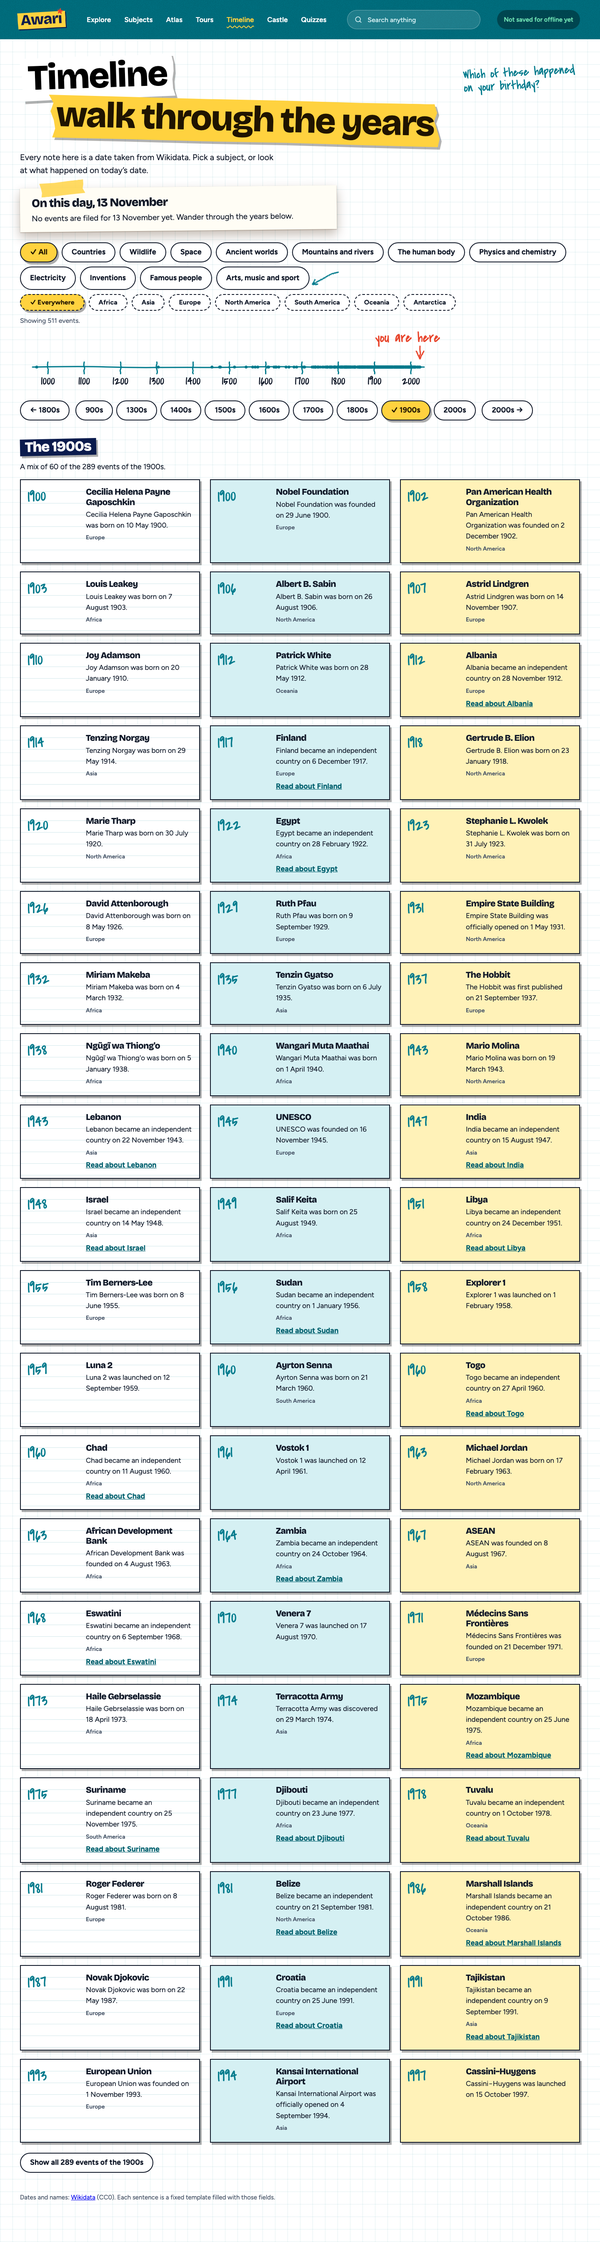
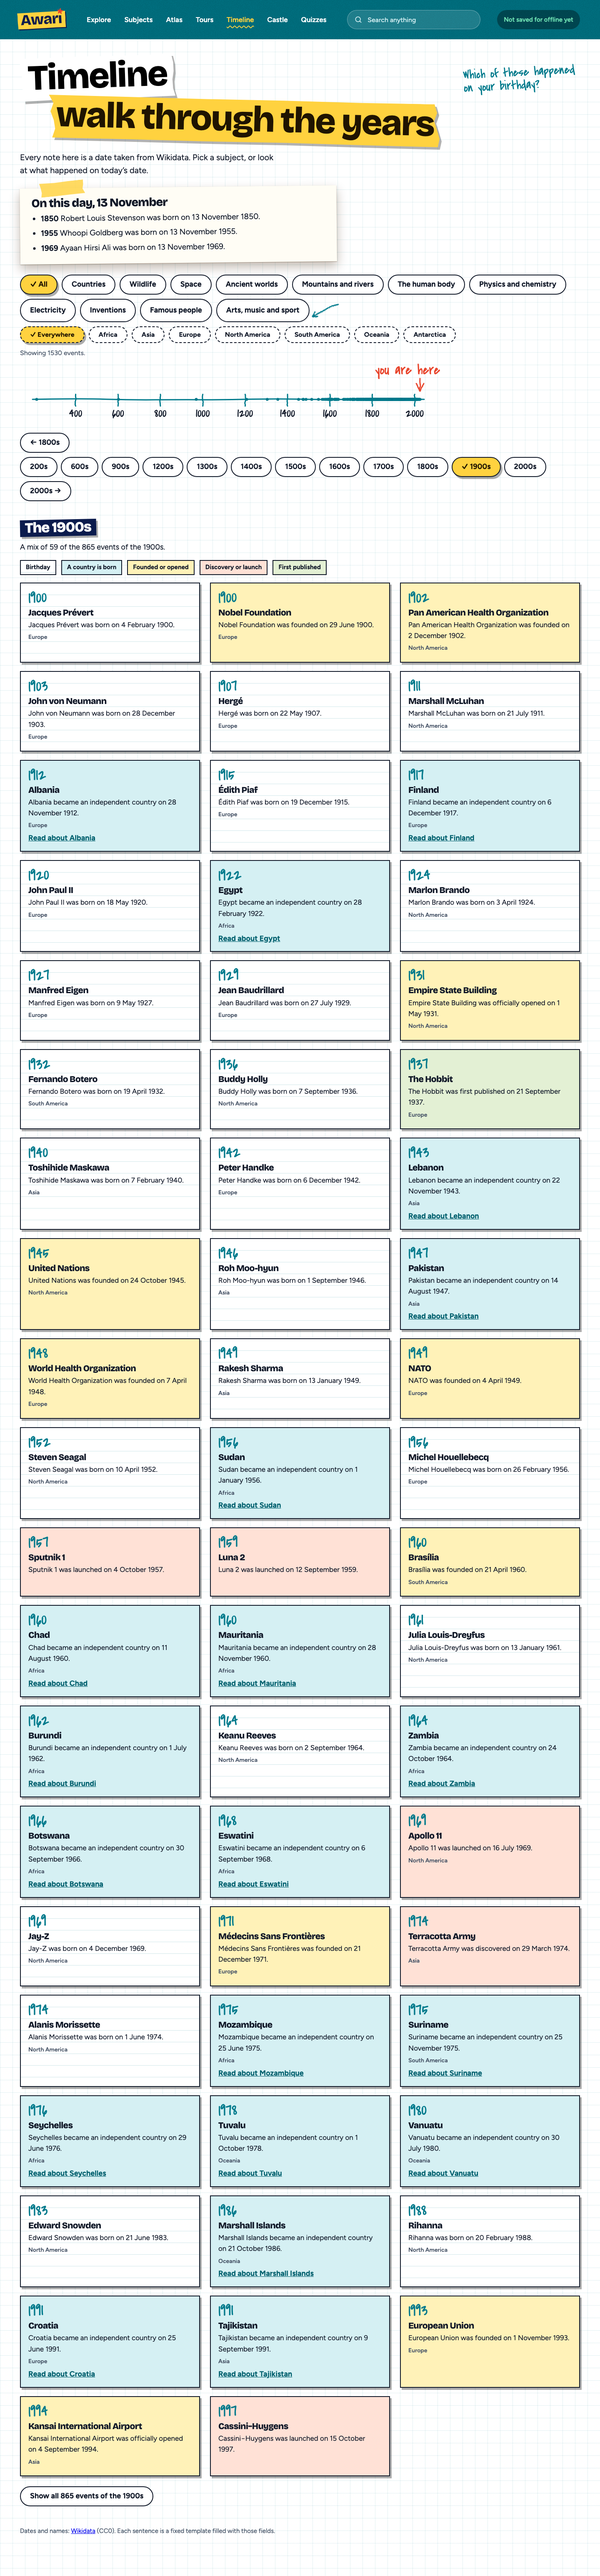
22-review-3 3: timeline cards coloured by kind with a legend, year above title, ruler step, births under 40%

diff --git a/src/features/timeline/TimelineScreen.tsx b/src/features/timeline/TimelineScreen.tsx
@@ -17,7 +17,10 @@ import {
   balancedCentury,
   centuriesWith,
   filterEvents,
+  EVENT_KIND_GROUPS,
   inCentury,
+  kindOf,
+  rulerStep,
   nearestCentury,
   positionOf,
   rulerMarks,
@@ -29,20 +32,16 @@ import {
 } from './filter.ts';
 import './timeline.css';
 
-const NOTE_STYLES = ['lined', 'teal', 'sticky'] as const;
 
 /** Article link such as "countries/mali" as an in-app path. */
 function articlePath(link: string): string {
   return `/article/${link}`;
 }
 
-function EventNote({ event, index, picked }: { event: TimelineEvent; index: number; picked: boolean }) {
+function EventNote({ event, picked }: { event: TimelineEvent; picked: boolean }) {
   const year = yearOf(event);
   return (
-    <li
-      id={`event-${event.id}`}
-      className={`tl-note tl-note--${NOTE_STYLES[index % NOTE_STYLES.length]}${picked ? ' is-picked' : ''}`}
-    >
+    <li id={`event-${event.id}`} className={`tl-note tl-note--${kindOf(event)}${picked ? ' is-picked' : ''}`}>
       <span aria-hidden="true" className="tl-note__year hand">
         {year}
       </span>
@@ -83,7 +82,7 @@ function Ruler({ events, todayYear }: { events: readonly TimelineEvent[]; todayY
       {events.map((e) => (
         <circle key={e.id} cx={x(yearOf(e))} cy={90} r={3.5} className="tl-ruler__tick" />
       ))}
-      {rulerMarks(min, max).map((year) => (
+      {rulerMarks(min, max, rulerStep(min, max)).map((year) => (
         <g key={year}>
           <path d={wobblyLine({ x: x(year), y: 78 }, { x: x(year), y: 106 }, year, 1.5)} />
           <text x={x(year)} y={132} textAnchor="middle" className="tl-ruler__year">
@@ -268,9 +267,16 @@ export default function TimelineScreen() {
               ? `All ${inThis.length} ${inThis.length === 1 ? 'event' : 'events'} of the ${current}s.`
               : `A mix of ${visible.length} of the ${inThis.length} events of the ${current}s.`}
           </p>
+          <ul className="tl-legend" aria-label="What the colours mean">
+            {EVENT_KIND_GROUPS.map((k) => (
+              <li key={k.id} className={`tl-legend__item tl-note--${k.id}`}>
+                {k.label}
+              </li>
+            ))}
+          </ul>
           <ol className="timeline__list">
-            {visible.map((e, i) => (
-              <EventNote key={e.id} event={e} index={i} picked={picked?.id === e.id} />
+            {visible.map((e) => (
+              <EventNote key={e.id} event={e} picked={picked?.id === e.id} />
             ))}
           </ol>
           {visible.length < inThis.length ? (

diff --git a/src/features/timeline/filter.ts b/src/features/timeline/filter.ts
@@ -137,6 +137,37 @@ export function isBirth(event: Pick<TimelineEvent, 'text'>): boolean {
   return /\bwas born\b/.test(event.text);
 }
 
+/** What an event is about, for its colour and the legend (22-review-3 Req 14). */
+export type EventKindGroup = 'birth' | 'nation' | 'founded' | 'discovery' | 'book';
+
+/** The legend, in display order. */
+export const EVENT_KIND_GROUPS: ReadonlyArray<{ id: EventKindGroup; label: string }> = [
+  { id: 'birth', label: 'Birthday' },
+  { id: 'nation', label: 'A country is born' },
+  { id: 'founded', label: 'Founded or opened' },
+  { id: 'discovery', label: 'Discovery or launch' },
+  { id: 'book', label: 'First published' },
+];
+
+/** The group of an event, read from its fixed sentence template. */
+export function kindOf(event: Pick<TimelineEvent, 'text'>): EventKindGroup {
+  const t = event.text;
+  if (/\bwas born\b/.test(t)) return 'birth';
+  if (/\bbecame an independent country\b/.test(t)) return 'nation';
+  if (/\bwas (launched|discovered)\b/.test(t)) return 'discovery';
+  if (/\bwas first published\b/.test(t)) return 'book';
+  return 'founded';
+}
+
+/** A ruler step that keeps the marks readable: about ten marks at most. */
+export function rulerStep(min: number, max: number): number {
+  const span = Math.max(1, max - min);
+  for (const step of [100, 200, 500, 1000, 2000]) {
+    if (span / step <= 10) return step;
+  }
+  return 5000;
+}
+
 /** Events shown at once for a century unless the student asks for all of them. */
 export const CENTURY_LIMIT = 60;
 
@@ -158,7 +189,8 @@ export function balancedCentury(events: readonly TimelineEvent[], limit = CENTUR
   const takeBirths =
     others.length === 0
       ? Math.min(births.length, limit)
-      : Math.max(0, Math.min(births.length, takeOthers - 1, limit - takeOthers));
+      : // Strictly under 40% of what is shown: births < 2/3 of the other events (22-review-3 Req 16).
+        Math.max(0, Math.min(births.length, Math.ceil((takeOthers * 2) / 3) - 1, limit - takeOthers));
   const chosen = new Set([...spread(others, takeOthers), ...spread(births, takeBirths)]);
   return events.filter((e) => chosen.has(e));
 }

diff --git a/src/features/timeline/kinds.property.test.ts b/src/features/timeline/kinds.property.test.ts
@@ -1,0 +1,44 @@
+/** 22-review-3 Property 5 (Req 14 to 16): kinds, legend, ruler step and the share of births. */
+import { readFileSync } from 'node:fs';
+import { describe, expect, it } from 'vitest';
+import type { TimelineEvent } from '../../lib/packs/types.ts';
+import { EVENT_KIND_GROUPS, balancedCentury, centuriesWith, inCentury, isBirth, kindOf, rulerMarks, rulerStep } from './filter.ts';
+
+const events = (JSON.parse(readFileSync('public/packs/timeline.json', 'utf8')) as { events: TimelineEvent[] }).events;
+
+describe('event kinds (22-review-3 Req 14)', () => {
+  it('gives every event in the pack exactly one kind that the legend names', () => {
+    const legend = new Set(EVENT_KIND_GROUPS.map((k) => k.id));
+    for (const e of events) {
+      expect(legend.has(kindOf(e))).toBe(true);
+    }
+  });
+
+  it('uses every colour group somewhere in the pack', () => {
+    const used = new Set(events.map(kindOf));
+    expect([...used].sort()).toEqual(EVENT_KIND_GROUPS.map((k) => k.id).sort());
+  });
+});
+
+describe('births are under 40% of every default century view (22-review-3 Req 16)', () => {
+  it('holds for each century of the real pack, with and without a subject filter', () => {
+    const sets = [events, events.filter((e) => e.subject === 'arts'), events.filter((e) => e.subject === 'science')];
+    for (const set of sets) {
+      for (const c of centuriesWith(set)) {
+        const shown = balancedCentury(inCentury(set, c));
+        const others = shown.filter((e) => !isBirth(e)).length;
+        if (others > 0) {
+          expect(shown.filter(isBirth).length / shown.length).toBeLessThan(0.4);
+        }
+      }
+    }
+  });
+});
+
+describe('ruler step (22-review-3 Req 15)', () => {
+  it('keeps the marks to about ten, whatever the span', () => {
+    for (const [min, max] of [[1900, 2000], [0, 2026], [-2500, 2026], [900, 2026]] as const) {
+      expect(rulerMarks(min, max, rulerStep(min, max)).length).toBeLessThanOrEqual(11);
+    }
+  });
+});

diff --git a/src/features/timeline/timeline.css b/src/features/timeline/timeline.css
@@ -153,25 +153,53 @@
 .tl-note {
   position: relative;
   display: flex;
-  gap: 16px;
+  flex-direction: column;
+  gap: 4px;
   align-items: flex-start;
-  padding: 16px 18px 16px 16px;
+  padding: 14px 18px 16px;
   background: var(--paper);
   color: var(--ink);
   border: 2px solid var(--ink);
   box-shadow: var(--shadow-hard);
 }
 
-.tl-note--lined {
+/* The colour says what kind of event it is; the legend names each one (22-review-3 Req 14). */
+.tl-note--birth {
+  background: var(--paper);
   background-image: repeating-linear-gradient(transparent 0 27px, rgb(0 122 140 / 0.18) 27px 28px);
 }
 
-.tl-note--teal {
+.tl-note--nation {
   background: var(--mist);
 }
 
-.tl-note--sticky {
+.tl-note--founded {
   background: #fff2b8;
+}
+
+.tl-note--discovery {
+  background: #ffe1d6;
+}
+
+.tl-note--book {
+  background: #e3f0d4;
+}
+
+.tl-legend {
+  display: flex;
+  flex-wrap: wrap;
+  gap: 8px 12px;
+  margin: 0 0 18px;
+  padding: 0;
+  list-style: none;
+}
+
+.tl-legend__item {
+  padding: 4px 12px;
+  border: 2px solid var(--ink);
+  color: var(--ink);
+  font-size: 15px;
+  font-weight: 700;
 }
 
 .tl-note.is-picked {
@@ -181,7 +209,6 @@
 
 .tl-note__year {
   flex: none;
-  min-width: 3.1em;
   color: var(--teal-ink);
   font-size: 40px;
   line-height: 1;

diff --git a/scripts/check-timeline-layout.ts b/scripts/check-timeline-layout.ts
@@ -26,7 +26,7 @@ for (const width of [1440, 390]) {
   });
   console.log(`${width}px: ${m.title}, ${m.cards} cards, ${m.births} births, ${m.height}px tall, overflow ${m.overflow}px`);
   if (m.overflow > 0) failed = true;
-  if (width === 1440 && (m.height >= 12_000 || m.births * 2 >= m.cards)) failed = true;
+  if (width === 1440 && (m.height >= 12_000 || m.births * 5 >= m.cards * 2)) failed = true;
   await page.close();
 }
 await browser.close();

diff --git a/docs/kiro-log.md b/docs/kiro-log.md
@@ -143,3 +143,4 @@ running the command itself.
 | 2026-11-13 09:40 | spec | 22-review-3 1 | Wrote requirements (24), design with six properties and tasks for docs/review-3.md; the batch goes to the conductor and the awari-builder, awari-design-reviewer and awari-licence-auditor crew members |
 | 2026-11-13 09:50 | spec | 23-media-library 1 | Wrote requirements (24), design with seven properties and tasks for docs/media-brief.md; it starts when review 3 is committed |
 | 2026-11-13 12:50 | builder run 34363b32 died on a backend 5xx after the Wikidata fetch had finished (1,188 candidate rows in timeline-days-data.ts, nothing wired in). Took over in this session: scripts/packs/rebuild-timeline-days.ts merges the day rows into timeline.json with the Wikidata date cross-check; npx vitest run (348 pass), tsc, eslint, credits | 22-review-3 2 | Every one of the 366 days now has at least 2 events (1,530 events). Found and fixed a real defect on the way: dayDate ignored the calendar model, so Julian-calendar days after 1582 showed as Gregorian (Tchaikovsky 25 April instead of 7 May); 8 such events dropped. Tests: on-this-day.property.test.ts (Properties 1, 2); timeline tests no longer rely on an empty 2 January |
+| 2026-11-13 13:05 | npx vitest run (all pass), tsc, eslint; scripts/check-timeline-layout.ts at 1440 and 390 (0 px overflow, 23 births of 59 cards, 1900s); screenshot of /timeline opened | 22-review-3 3 | Cards are coloured by kind (birthday, country, founded or opened, discovery or launch, first published) with a legend; the year sits above the title; the ruler picks its step so it shows about ten marks; births are held strictly under 40% (kinds.property.test.ts, Property 5). Done in this session after the crew builder died |

diff --git a/.kiro/specs/22-review-3/tasks.md b/.kiro/specs/22-review-3/tasks.md
@@ -7,7 +7,7 @@ One task per item. Each is built by `awari-builder`, checked by `awari-design-re
 - [x] 1. Spec: requirements, design with properties, tasks.
 - [x] 2. Timeline data: at least two events for each of the 366 days; coverage test (Property 1);
       "Coming up" only in the third slot (Property 2). _Req 1-3_
-- [ ] 3. Timeline cards: colour by kind with a legend, year above the title, ruler spacing, births
+- [x] 3. Timeline cards: colour by kind with a legend, year above the title, ruler spacing, births
       under 40% (Property 5). _Req 14-16_
 - [ ] 4. Stamp sheets component; stamp book continents as sheets in a 3x2 grid. _Req 5_
 - [ ] 5. Atlas uses the stamp sheets; closes the gap under the picker. _Req 6, 7_
